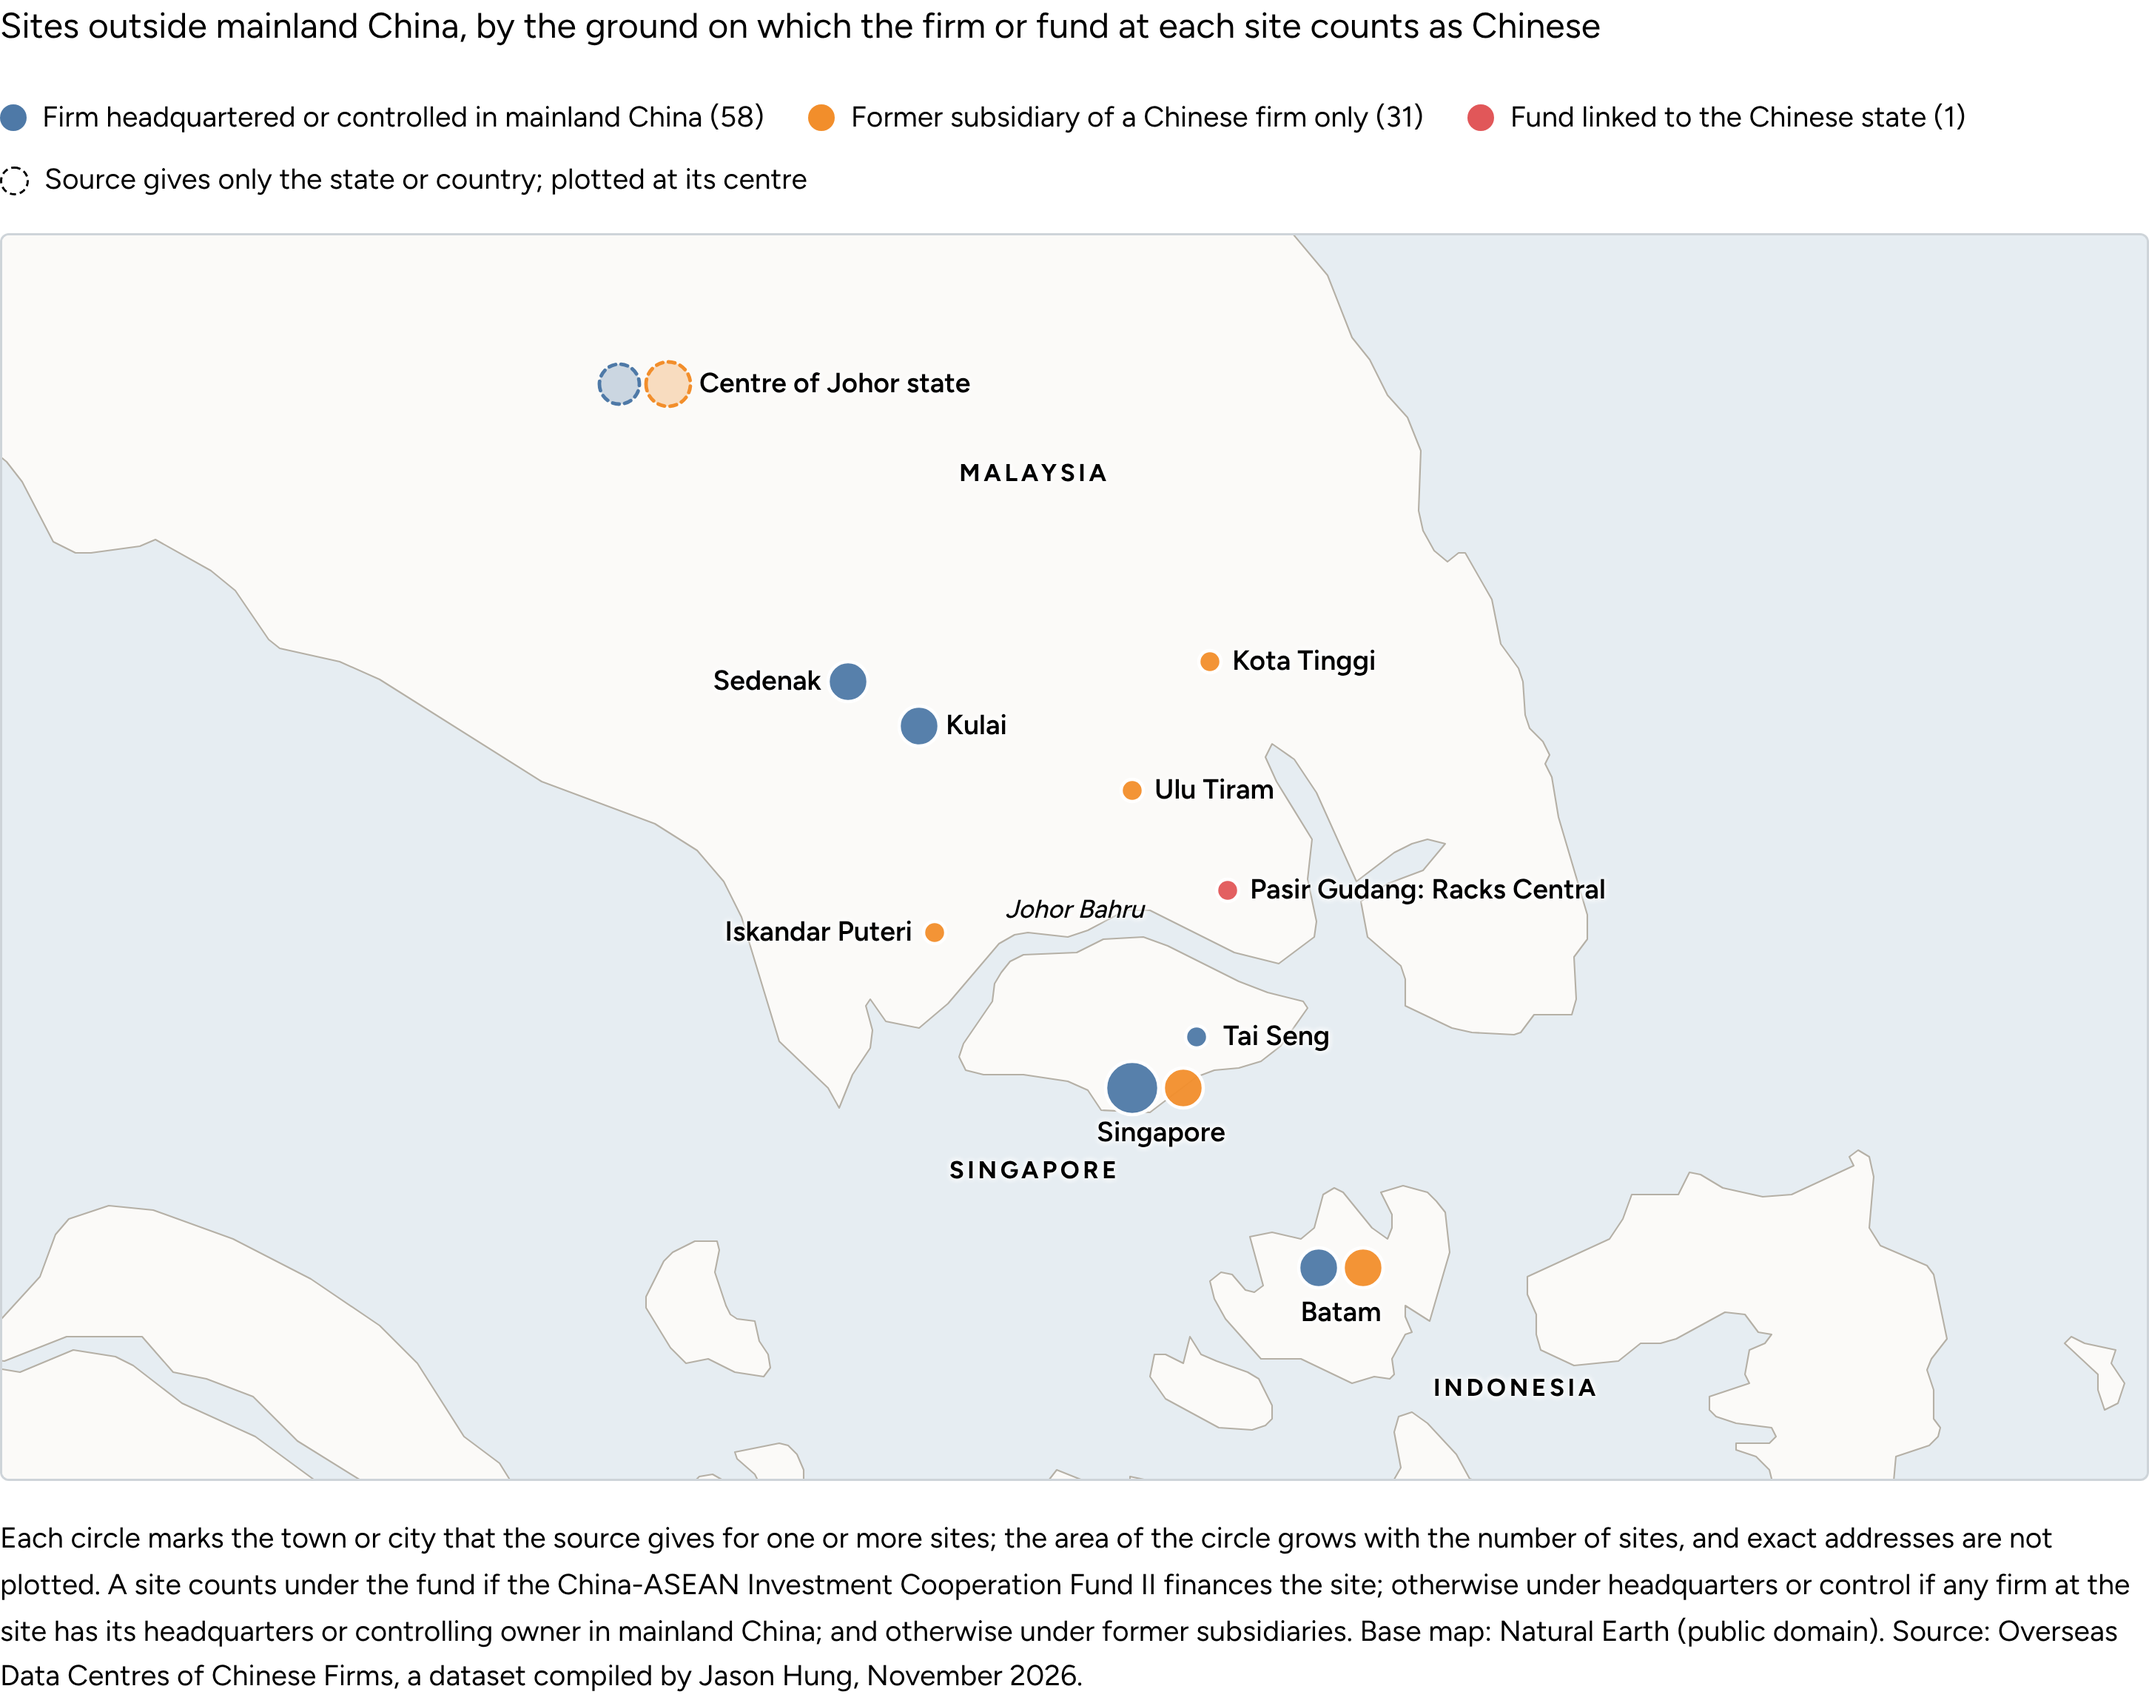
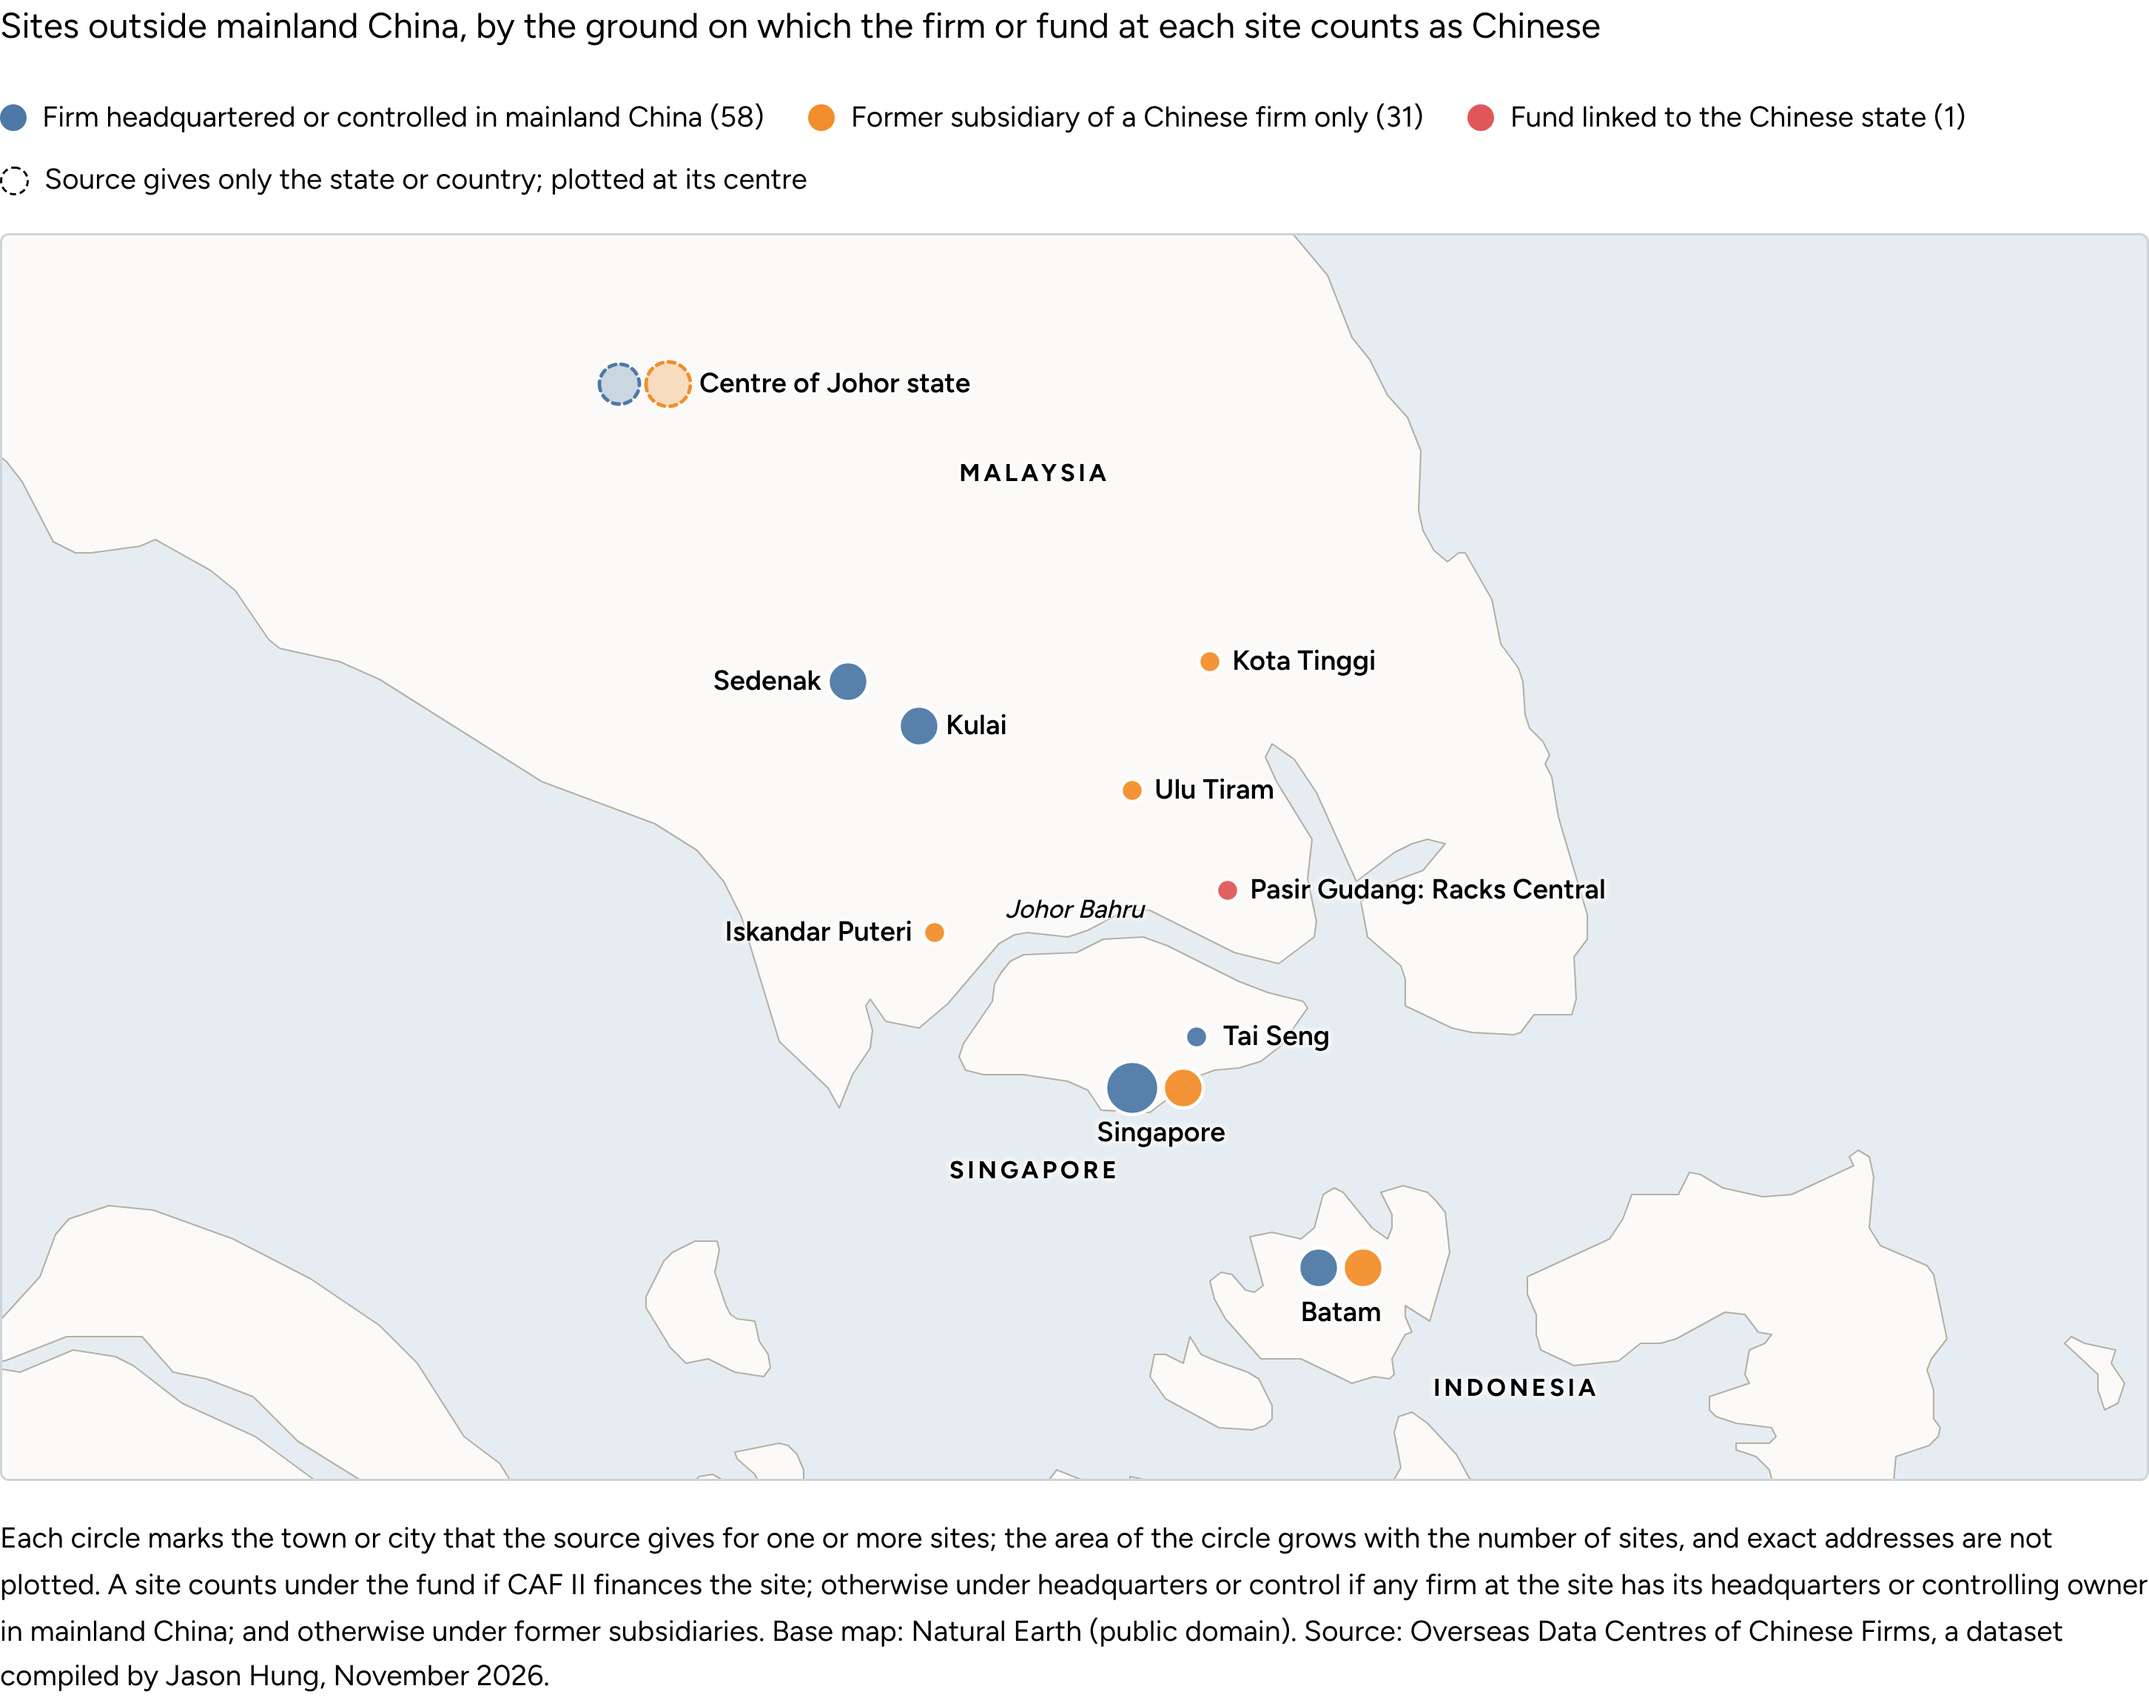
Call the fund CAF II in the notes of the map and the chart

Changed region(s): [[0.0, 0.9257, 1.0, 1.0]]

diff --git a/site/figures/seven-markets.html b/site/figures/seven-markets.html
@@ -786,7 +786,7 @@ or finances the facility, by the ground on which the firm or fund counts as Chin
 <div class="mk-axis" style="grid-row:8"><span style="left:0.0%">0%</span><span style="left:25.0%">10%</span><span style="left:50.0%">20%</span><span style="left:75.0%">30%</span><span style="left:100.0%">40%</span></div>
 <div class="mk-axis-title" style="grid-row:9">Share of the facilities listed in the market</div>
 </div>
-<p class="fx-note">A facility counts under the fund if the China-ASEAN Investment Cooperation Fund II finances the facility; otherwise under
+<p class="fx-note">A facility counts under the fund if CAF II finances the facility; otherwise under
 headquarters or control if any firm at the facility has its headquarters or controlling owner in mainland China; and otherwise under former
 subsidiaries, which are DayOne, Bridge Data Centres, Bitdeer and Megaspeed. <b>In Johor, 20 of the 30 facilities with a Chinese role count only
 because the operator or owner was once part of a Chinese firm; without that ground, 10 of the 84 facilities (11.9 per cent) have a Chinese

diff --git a/site/figures/map.html b/site/figures/map.html
@@ -788,7 +788,7 @@ svg.leaflet-image-layer.leaflet-interactive path {
 <div id="mp-map" role="img" aria-label="Map of the 90 sites; the table below lists every site"></div>
 <p class="mp-hint">Hover over or tap a circle to see the sites at that place. Use the buttons or the plus and minus controls to zoom.</p>
 <p class="fx-note">Each circle marks the town or city that the source gives for one or more sites; the area of the circle grows with the
-number of sites, and exact addresses are not plotted. A site counts under the fund if the China-ASEAN Investment Cooperation Fund II
+number of sites, and exact addresses are not plotted. A site counts under the fund if CAF II
 finances the site; otherwise under headquarters or control if any firm at the site has its headquarters or controlling owner in mainland
 China; and otherwise under former subsidiaries. Base map: Natural Earth (public domain). Source: Overseas Data Centres of Chinese Firms, a
 dataset compiled by Jason Hung, November 2026.</p>
